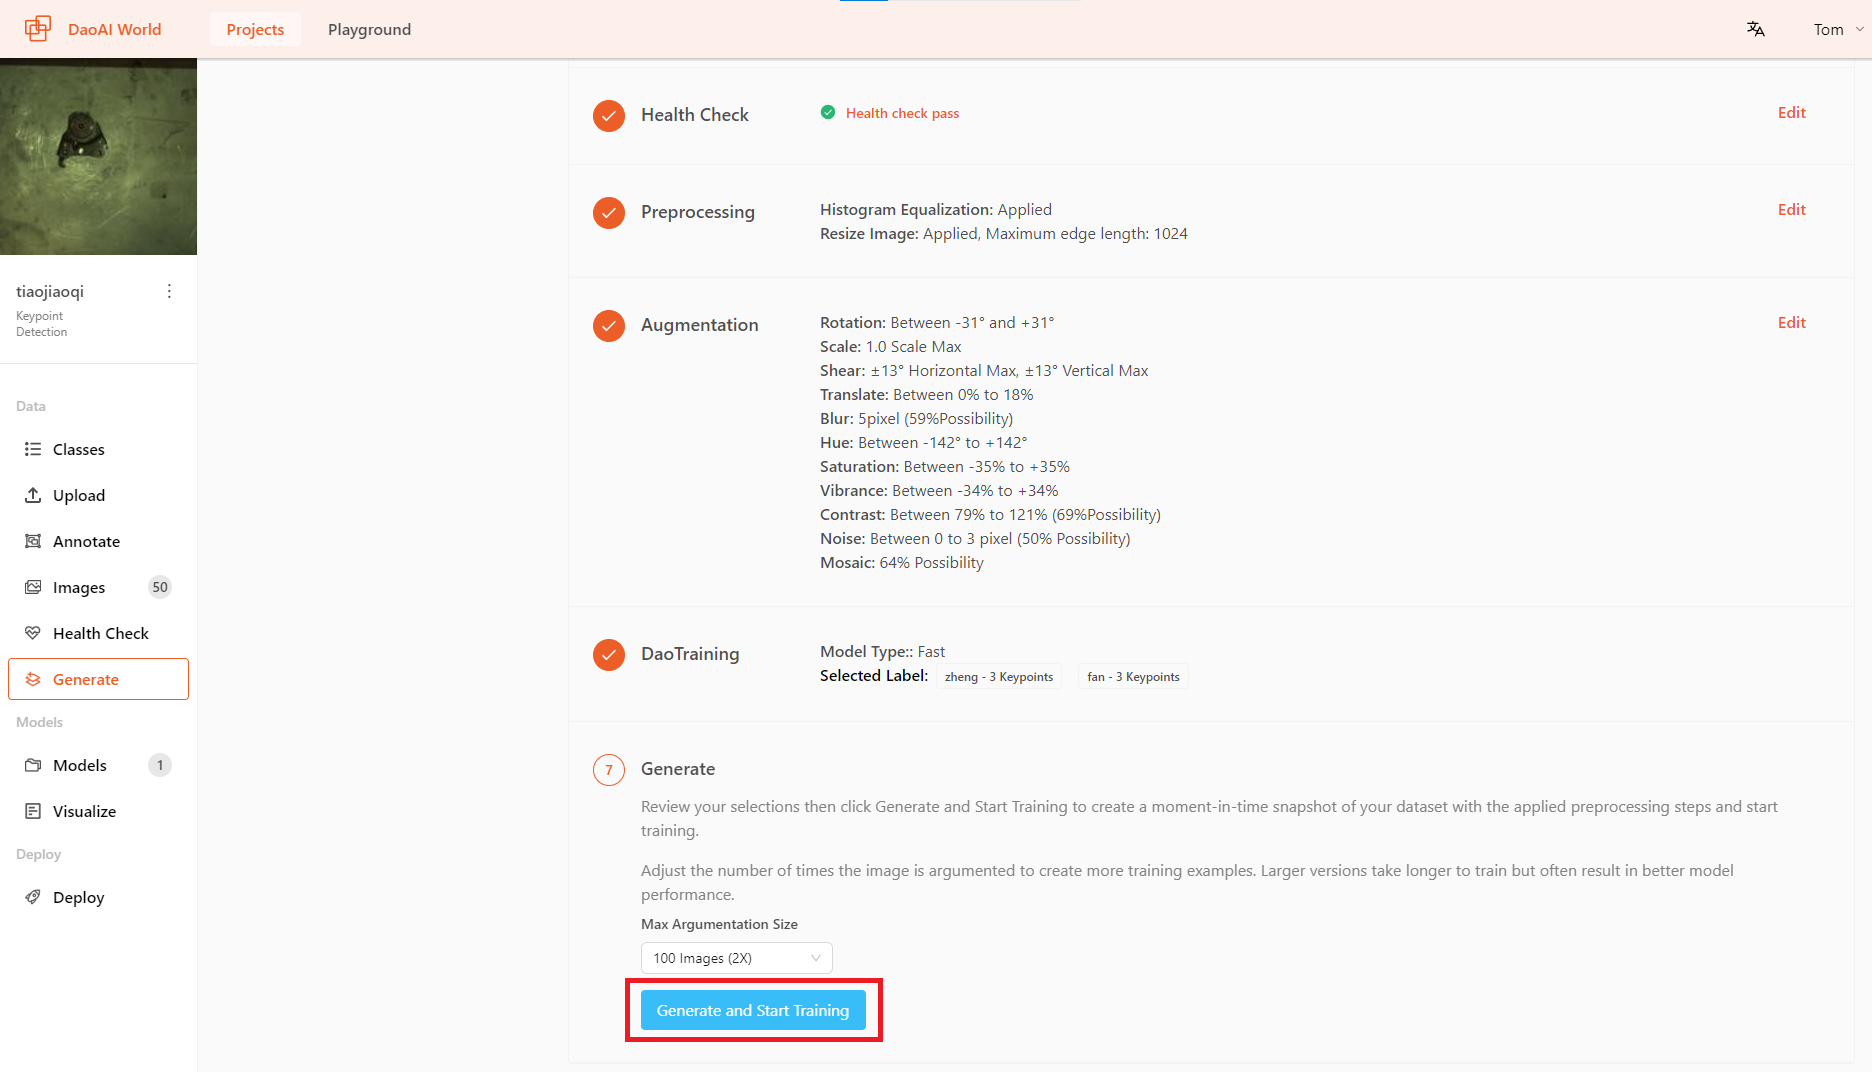
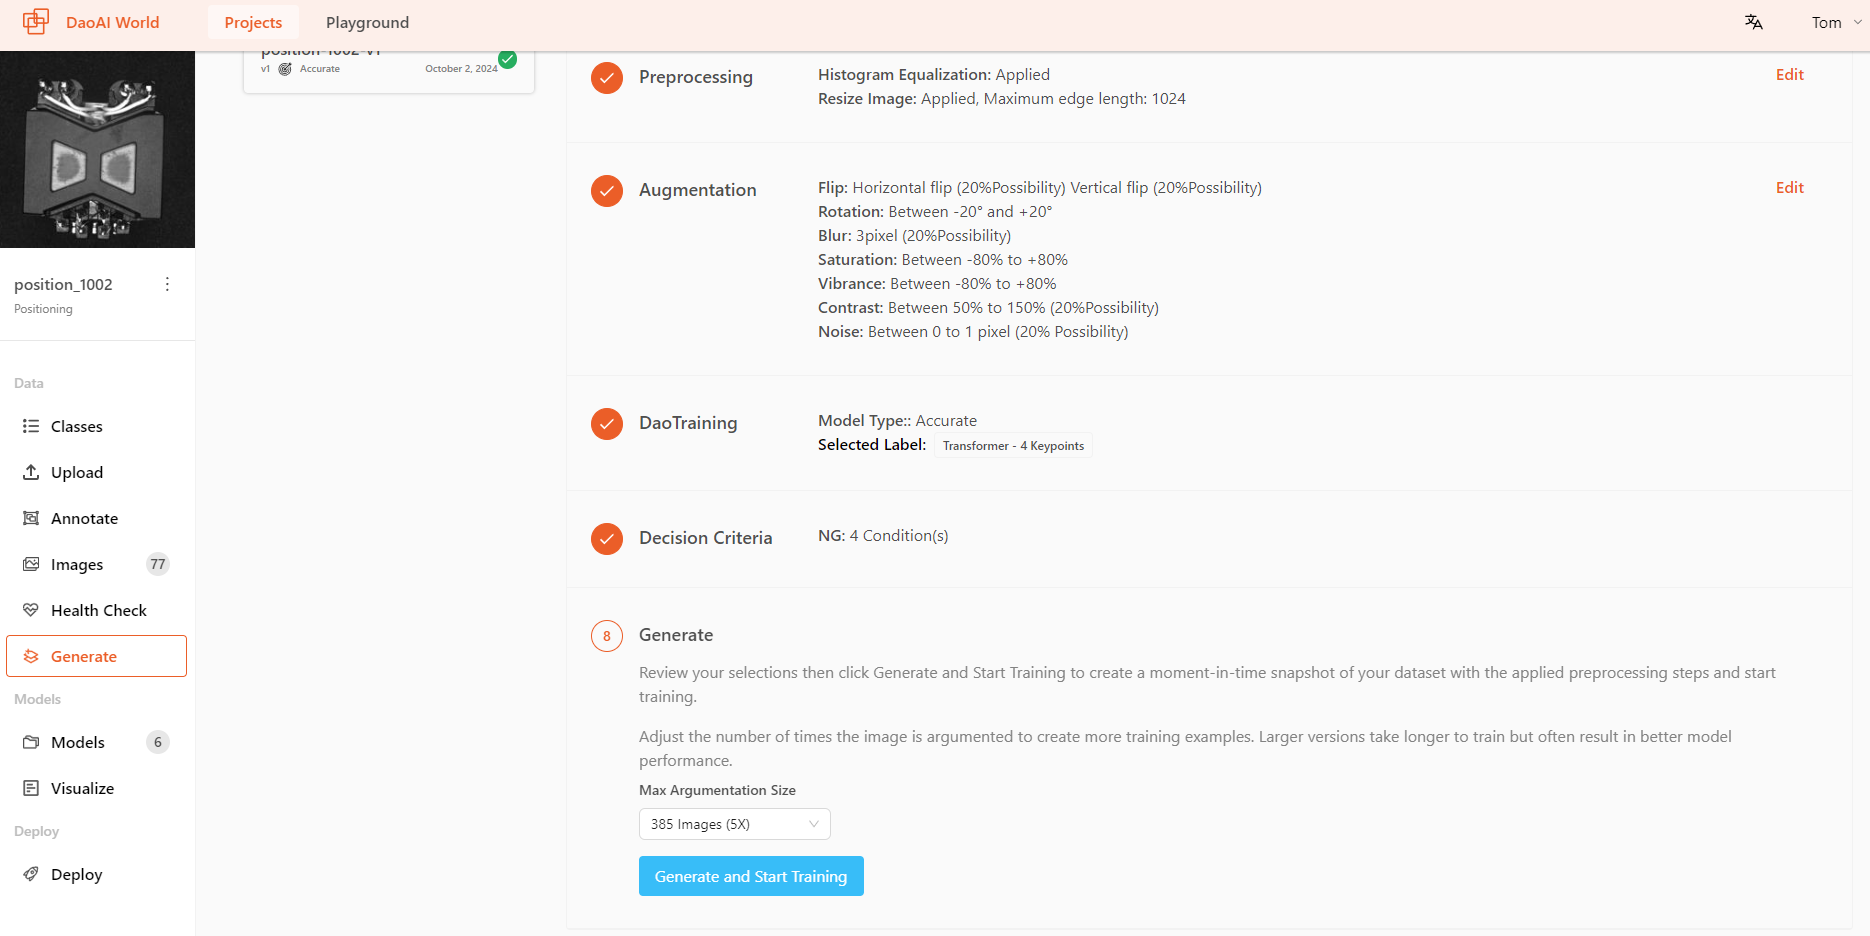
.7 update for English ver.

diff --git a/docs/source/train/train_model/index.rst b/docs/source/train/train_model/index.rst
@@ -88,7 +88,7 @@ preprocessing
         * **High Resolution Image Slicing**
             For ultra-high-resolution images, traditional training methods typically require compressing the images, which can lead to a loss of detail. The **High Resolution Image Slicing** addresses this by cutting the image into smaller chunks instead of compressing it. This approach preserves the complete image information while effectively handling large image data, thereby improving detection accuracy for large images.
 
-            .. image:: images/img_cut.png
+            .. image:: images/img_cut.gif
                 :width: 600
                 :align: center     
 
@@ -266,11 +266,52 @@ After selecting the mode, click **Continue** to proceed to the next step.
         .. image:: images/train_label.png
             :scale: 100%
 
+- Train from Previous Checkpoint：
+    Before starting the training, user can choose to start from one of your previous training runs to speed up training and improve accuracy. If you already successfully trained a model on this project, ``Train from Previous Checkpoint`` is the best option. If you are training a model for the first time or if you want to start from scratch, ``Train from Base Model`` is the best option.
+    
+        .. image:: images/train_checkpoint.png
+            :scale: 100%
 
-Then click **Generate and Start Training** to begin the training process.
+
+Decision Criteria
+-----------------
+
+Some models support decision criteria, which are used to determine whether an image meets a certain standard. Only **Supervised Defect Segmentation** , **Unsupervised Defect Segmentation** , **Object Detection** , **Positioning** , and **Presence Detection** models support this feature. These models can output a **Not Good** or **NG** result for images.
+
+.. image:: images/decision_criteria.png
+    :align: center
+
+The decision criteria interface is as follows: on the left side, you can see the categories, where you can add new categories, delete, or edit existing ones; on the right side, you can find the conditions for the selected category, where you can add, delete, or modify the current conditions.
+
+.. image:: images/decision_ui.png
+    :align: center
+
+
+- ``NG`` standard:
+    For most quality inspections, it is required that the system outputs a determination of whether an object meets the standards. The ``NG/Not Good`` criteria are widely used in quality control. Here, you can set the specific conditions for ``NG`` , including **combined overall movement**, **combined movement along X direction** , **combined movement along Y direction** , **angle of rotation** , and so on.
+        .. image:: images/ng_condition.png
+            :scale: 100%
+            
+    On the left side, click ``+ More Category`` to add a category (green), and click the ``-`` next to the category to delete it(red). On the right side, click ``+ Condition`` to add a condition (green), and click the ``-`` next to the condition to delete it(red).
+        .. image:: images/ng_add_delete.png
+            :scale: 100%
+    
+    As shown in the image below, these are the ``NG`` conditions that can be added for the positioning model.
+        .. image:: images/ng_condition_detailed.png
+            :scale: 100%
+
+    Different models have various conditions that can be set according to their specific requirements.
+        .. image:: images/ng_other_condition.png
+            :scale: 100%
+
+
+Generate
+-----------------
+
+You can select the **Max Argumentation Size** , ranging from ``2X ~ 5X`` , you can adjust the number of times the image is argumented.
 
 .. image:: images/start_train.png
-  :scale: 70%
+  :scale: 80%
 
 
 available Training modes by model
@@ -281,41 +322,56 @@ available Training modes by model
    :header-rows: 1
 
    * - Model Type
-     - Fast Mode
-     - Accurate Mode
-     - Rotated Accurate Mode
-   * - Instance Segmentation
+     - Super Fast
+     - Fast
+     - Accurate
+     - Rotated accurate
+   * - Supervised Defect Segmentation
+     -  
      - √  
-     - √  
-     - √  
-   * - Keypoint
-     - √  
-     - √  
-     - √  
-   * - Anomaly
-     - √  
-     - √  
+     - √ 
+     -  
+   * - Unsupervised Defect Segmentation
+     -   
      - 
-   * - Classification
      - √  
-     - √  
-     - 
+     -     
    * - Object Detection
      - √  
      - √  
+     - √  
+     - √  
+   * - Positioning
+     -   
+     - √  
+     - √  
+     - √  
+   * - Presence Checking
+     - 
      - √
-   * - Supervised Defect Segmentation
-     - √  
-     -  
+     - √
      - 
+   * - Classification
+     -   
+     - √
+     - √
+     -       
    * - OCR
-     - √  
+     -  
+     -  
+     - √
      - 
-     - 
-..    * - 旋转目标检测
-..      - √  
-..      - √  
-..      - 
+   * - Instance Segmentation
+     - √
+     - √
+     - √
+     - √
+   * - Keypoint
+     - √
+     - √
+     - √
+     - √
+
 
 
 Live Training Graphs
@@ -328,6 +384,15 @@ During the training process, you can view the real-time training result graphs o
     :align: center
 
 You can view the estimated remaining training time and the real-time training accuracy.
+
+View Decision Criteria
+------------------------
+
+After training is completed, you can still modify the model's decision criteria.
+
+.. image:: images/decision_change.png
+    :scale: 80%
+    :align: center
 
 
 How to train a good model?

diff --git a/docs/source/introduce/quick_start/release-notes.rst b/docs/source/introduce/quick_start/release-notes.rst
@@ -4,26 +4,23 @@ Release Notes
 .. contents:: 
     :local:
 
-Version 2.24.6.0 Updates:
+Version 2.24.7.0 Updates:
 ------------------------------------
 
-- Added DWM model type.
-- Added custom training label feature, allowing you to remove unwanted training labels with one click.
-- Added display of remaining training time to help you better manage the time required for training.
-- Added search and filter functions for datasets, allowing you to search by file name or filter by training set, test set, or validation set.
-- Added custom label color options, enabling you to change the color display of labels and annotation outlines.
-- Added automatic/manual dataset management options, allowing you to choose any image for training, testing, or validation sets, or let it be automatically assigned.
-- Added functionality to collect images through a 2D industrial camera. Download the DaoAI Preview software and connect via LAN to collect camera data in real-time for annotation or inference.
-- Added three edge modes for smart annotation: Simple, Normal, and Copy, each corresponding to different edge details.
-- Added drag-and-drop functionality for label selectors. Previously, this window might obstruct the annotation area; now it can be freely dragged to avoid blocking during annotation.
-- Added high-resolution image slicing annotation feature, allowing you to annotate after slicing images, which helps in annotating finer details.
-- Added high-resolution image slicing preprocessing, which slices images instead of compressing them, preserving complete image details during training.
-- Added shortcut key hints for annotation, helping users quickly learn the annotation shortcuts.
-- Added confidence adjustment in the dataset prediction page, allowing for better evaluation of model performance at different confidence levels during validation.
+- Brand New Project Create page.
+- Added Demo Projects for guidance and demo purpose.
+- Image Display Setting allows users to adjust image display settings during annotation to improve annotation efficiency.
+- View annotations and detection results at the same time allowing for better distinction between the two.
+- New Positioning project for detecting objects in images and marking their positions, making it suitable for various industrial applications such as robotic assembly.
+- New Presence Detection project for detecting the installation status of parts by comparing the image with a reference image. It is commonly used for detecting misassembled or missing parts.
+- New classification project annotation image as background image function, indicating that there are no other objects in the image, only the background.
+- New OCR dictionary function which allows focus on the language of text recognition projects. Users can select the desired language for recognition, improving efficiency and accuracy.
+- New decision criteria function, allowing users to select the criteria that best align with the model's requirements. This helps to better filter detection results during model inference.
+- Image Argumentation Times allowing users to adjust the number of image augmentations to create more training samples. Larger versions will take longer to train but typically result in better model performance.
+- Train from Previous Checkpoint feature, it is recommended to start from a previous training run to speed up the training process and improve accuracy. If user have successfully trained a model on this project before, this option is the best choice.
+- Inference Information Display shows inference time and the type of GPU used for training. This helps users better understand the recognition speed.
 
 Detailed information can be viewed in the Change Log at the top right corner of our website.
-
-
 
 .. image:: images/changelog.png
     :width: 800

diff --git a/docs/source/data/start_project/index.rst b/docs/source/data/start_project/index.rst
@@ -32,9 +32,86 @@ Creating a Project
     or click Skip and Create an Empty Project to use a dataset with existing category labels,  |br|
     or add category label information later. 
 
-
     After completing the category information setup, click **Create Project** to finalize the project creation.
 
+    When creating **OCR** project, user should choose dictionary type: which type of language or text should the model detect?
+
+        .. image:: images/create_ocr_project.png
+            :align: center
+
+    Here, you can select the language for OCR model recognition based on the specific requirements of the project, or input special characters for support in recognizing unique languages or texts.
+
+Demo Project
+---------------------
+
+The demo projects are carefully selected from past DaoAI projects and can be used for demonstration or training purposes.
+
+.. image:: images/demo_project.png
+    :align: center
+
+|
+
+Click to select the project you want to demo or duplicate. Here, we choose the ``Transformer Positioning`` project for demonstration. You can view the project details, including the number of images and other information.
+
+.. image:: images/demo_description.png
+    :align: center
+
+|
+
+Click on ``Images`` to open the image page, you can view the entire dataset, annotation details.
+
+.. image:: images/demo_image.png
+    :align: center
+
+|
+
+Click on ``Health Check`` to open the dataset health check page, where you can view the health check results for the entire dataset.
+
+.. image:: images/demo_health_check.png
+    :align: center
+
+|
+
+Click on ``Model`` to view the model's training graph, including the preprocessing and data augmentation options that were added during training.
+
+.. image:: images/demo_models.png
+    :align: center
+
+|
+
+Click on ``Visualize`` to view the model's inference results. You can upload images to see the results, adjust the confidence threshold, and explore different outputs.
+
+.. image:: images/demo_visualize.png
+    :align: center
+
+|
+
+Click on ``Classes`` , ``Upload`` , ``Annotate`` , or ``Generate`` to duplicate this demo project into your account's default workspace.
+
+.. image:: images/demo_copy.png
+    :align: center
+
+|
+
+Please be patient while the workspace is being copied and set up.
+
+.. image:: images/demo_copy_confirm.png
+    :align: center
+
+|
+
+You can check the newly imported project in your account's default workspace.
+
+.. image:: images/demo_copy_done.png
+    :align: center
+
+|
+
+You can add the already annotated data from the demo project to your dataset, or make modifications as needed.
+
+.. image:: images/demo_copied.png
+    :align: center
+|
 
 .. |br| raw:: html
 

diff --git a/docs/source/deploy/deploy_device/index.rst b/docs/source/deploy/deploy_device/index.rst
@@ -6,9 +6,16 @@ Deploying and Testing the Model in DaoAI World
 
     Once the model training is complete, you can test your model in DaoAI World.
 
-
 Testing the Model on the Validation Set
 ~~~~~~~~~~~~~~~~~~~~~~~~~~~~~~~~~~~~~~~~~~~~~~
+
+    You can check the inform of inference time and GPU mode.
+
+    .. image:: Images/inference_time_gpu.png
+            :scale: 100%
+            :align: center
+
+|
 
     Select the model you want to test, then click the ``view test set``.
 
@@ -54,6 +61,23 @@ Upload an image to test the model
     After uploading, the model will perform inference on the uploaded image. Once completed, you can view the model's recognition results in the window. The top right corner will display information such as the number of objects and keypoints detected in the current image.
 
     Additionally, you can adjust the **Confidence Threshold** on the right to filter out recognition results with low confidence levels.
+
+
+View annotations and detection results at the same time
+~~~~~~~~~~~~~~~~~~~~~~~~~~~~~~~~~~~~~~~~~~~~~~~~~~~~~~~~~~
+
+Click the ``Display both Ground Truth and Model Predictions`` button on top-left corner, user can switch to different display: Ground Truth and Model Predictions.
+
+    .. image:: Images/compare_annotate.png
+        :width: 800
+        :align: center
+
+Click the ``Change Label Style`` button, after changing color user can simultaneously compare the annotation results with the model's predictions.
+
+    .. image:: Images/change_color.png
+        :width: 800
+        :align: center
+
 
 Deploying Models in Other Applications
 ---------------------------------------------

diff --git a/docs/source/introduce/quick_start/index.rst b/docs/source/introduce/quick_start/index.rst
@@ -78,6 +78,26 @@ If the data is not already annotated, you can add label information here. Once t
         :width: 800
         :align: center
 
+**Demo Project**
+
+    .. image:: images/demo_project.png
+        :scale: 80%
+        :align: center
+
+DaoAI World can use demo project's data as guidance or for copying into your own projects for practice.
+
+    .. image:: images/demo_copy.png
+        :scale: 80%
+        :align: center
+
+Click on the project you wish to select, you will see an introduction to the project. You can then ``duplicate this project`` it to your own workspace for use.
+
+    .. image:: images/demo_copied.png
+        :scale: 80%
+        :align: center
+
+|
+
 **Upload Data**
 
 DaoAI World supports uploading single images (png, jpg, jpeg, bmp) or uploading all images from a folder. You can also upload annotated data files (.json) together with the images, or directly import data from other pre-existing projects.

diff --git a/docs/source/data/manage/start.rst b/docs/source/data/manage/start.rst
@@ -16,6 +16,9 @@ Upload Data
             :width: 800
             :align: center
 
+        .. tip::
+            **Import from other project** supports importing polygon annotations, which are automatically converted into bounding boxes.
+
         .. warning:: 
             Please note that due to system limitations, image file sizes cannot exceed 50MB. It is also recommended to upload fewer than 1000 images at a time, as uploading too many images in a single batch may result in upload failure.
             
